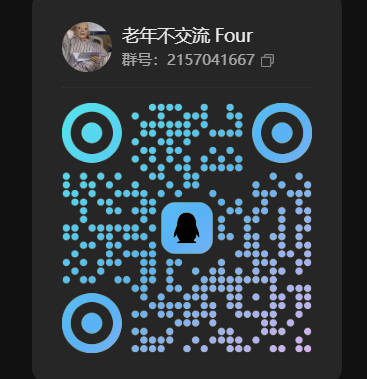
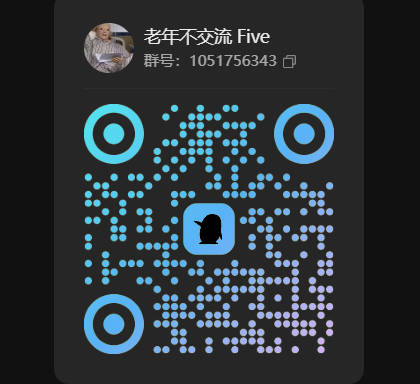
yancchen

Changed region(s): [[0.1499, 0.2612, 0.8692, 0.9288], [0.1499, 0.058, 0.7493, 0.2032]]

diff --git a/README.md b/README.md
@@ -18,7 +18,7 @@
 >
 > 本工具完全免费，不进行任何收费
 >
-> 获取最新版本请加入QQ群：2157041667
+> 获取最新版本请加入QQ群：1051756343
 
 > 不直接发布在Github原因已经很明了，防止被倒卖。国内的开源环境就这样，差得很
 
@@ -232,17 +232,17 @@ sudo ./Yan_cursor_Change_ID_Auto
 你还有其他更好的想法吗？
 
 ## 💌 联系方式
-- QQ群：2157041667
+- QQ群：1051756343
 - 获取最新版本请加群下载
 - 技术交流请加群联系群主
 
 ## 🎁 打赏与交流
 > 如果觉得工具好用，可以请作者喝杯咖啡，同时加入QQ群获取更多技术支持！
 
-| 微信收款码 | 支付宝收款码 | QQ群邀请码（2157041667） |
+| 微信收款码 | 支付宝收款码 | QQ群邀请码（1051756343） |
 |:---------:|:-----------:|:---------:|
 | ![微信](./img/wx.png) | ![支付宝](./img/zfb.jpg) | ![QQ群](./img/qq2.jpg) |
-| 微信打赏 | 支付宝打赏 | QQ群：2157041667 |
+| 微信打赏 | 支付宝打赏 | QQ群：1051756343 |
 
 ## ⭐ 特别说明
 1. 本工具完全免费，谨防受骗
@@ -260,8 +260,8 @@ Journey - 提供的自动化思路
 群友 @atom - 提供的帮助
 
 ---
-**文档最后更新时间：2025-05-14 2:00**
+**文档最后更新时间：2025-05-25 2:00**
 
 **脚本更新在群里通知，上面只是文档**
 
-_如果觉得好用，请推荐给身边的朋友，一起加入QQ群：2157041667
+_如果觉得好用，请推荐给身边的朋友，一起加入QQ群：1051756343
